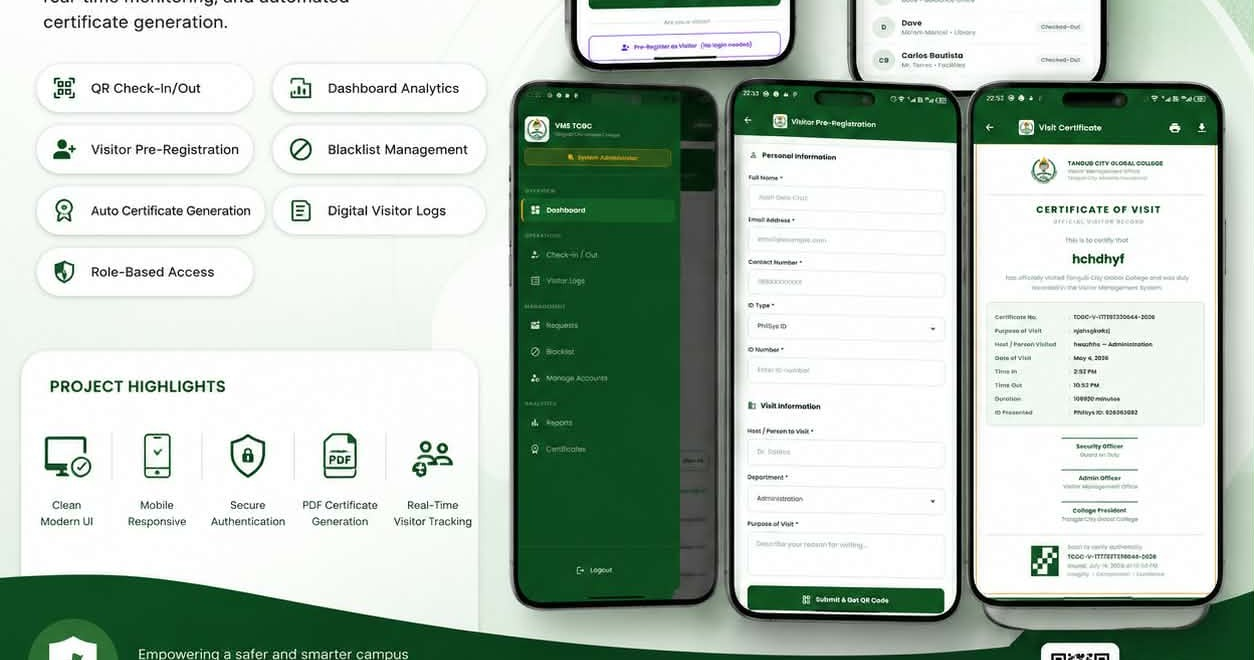
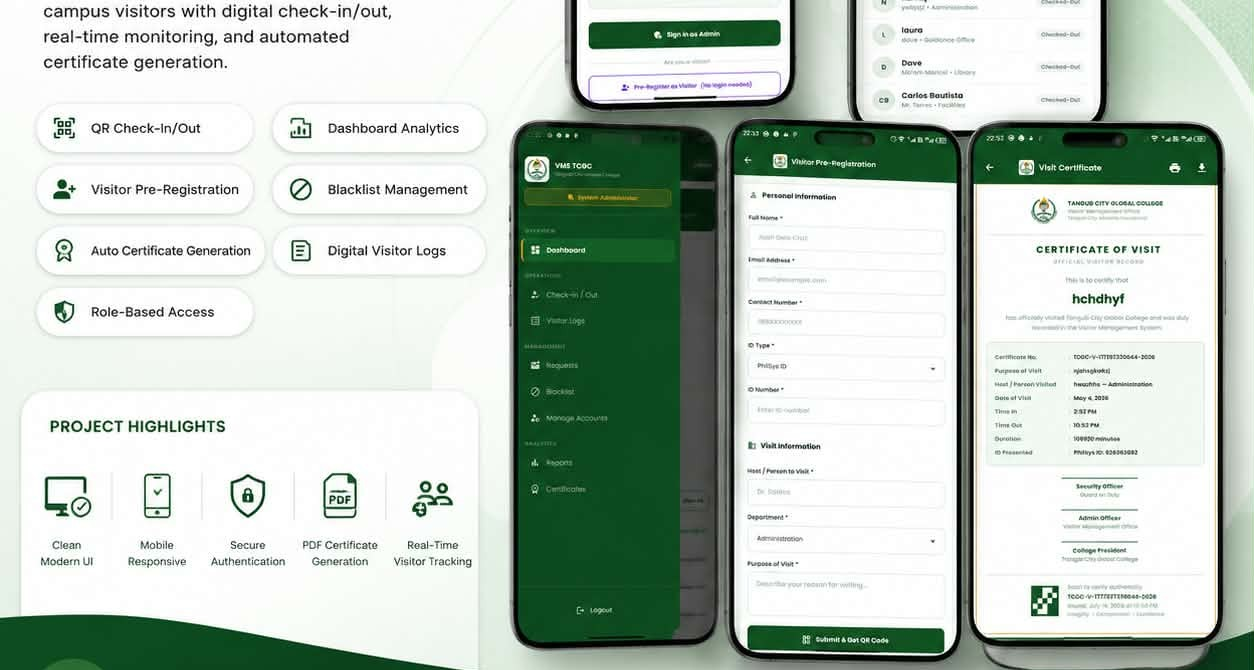
repo

diff --git a/index.html b/index.html
@@ -386,9 +386,9 @@
             data-github="">
             <div class="pc-shine"></div>
             <div class="pc-featured-badge">⭐ Featured</div>
-            <div class="pc-shots pc-shots-flyer">
+            <div class="pc-shots">
               <div class="pc-shots-expand"><i class="bi bi-arrows-angle-expand"></i></div>
-              <img src="assets/shots/vms/0-cover.jpg" class="pc-shot active pc-shot-contain" alt="Visitor Management System promotional overview">
+              <img src="assets/shots/vms/0-cover.jpg" class="pc-shot active" alt="Visitor Management System promotional overview">
               <div class="pc-shots-dots"></div>
             </div>
             <div class="pc-tag">Full-Stack</div>
